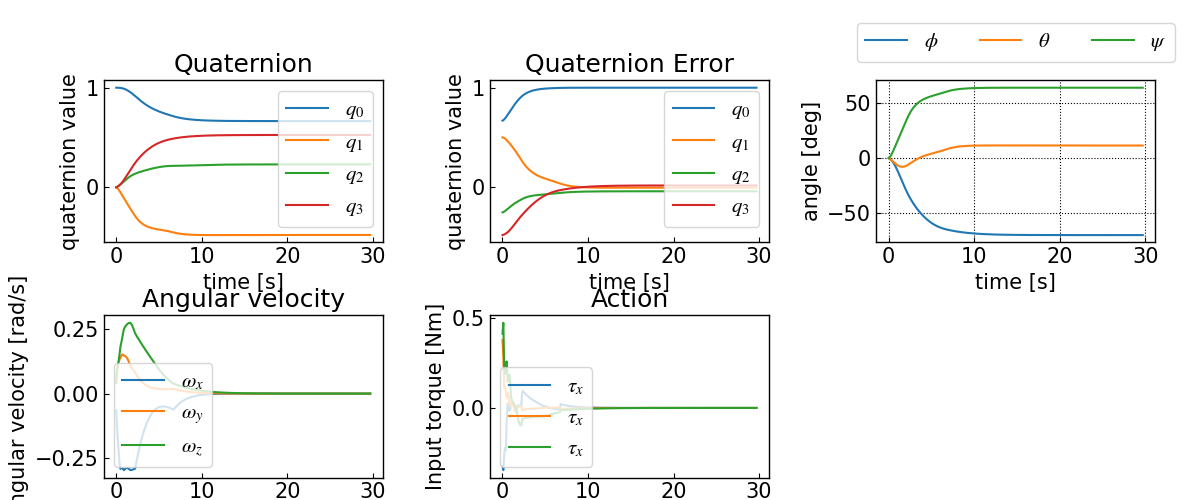
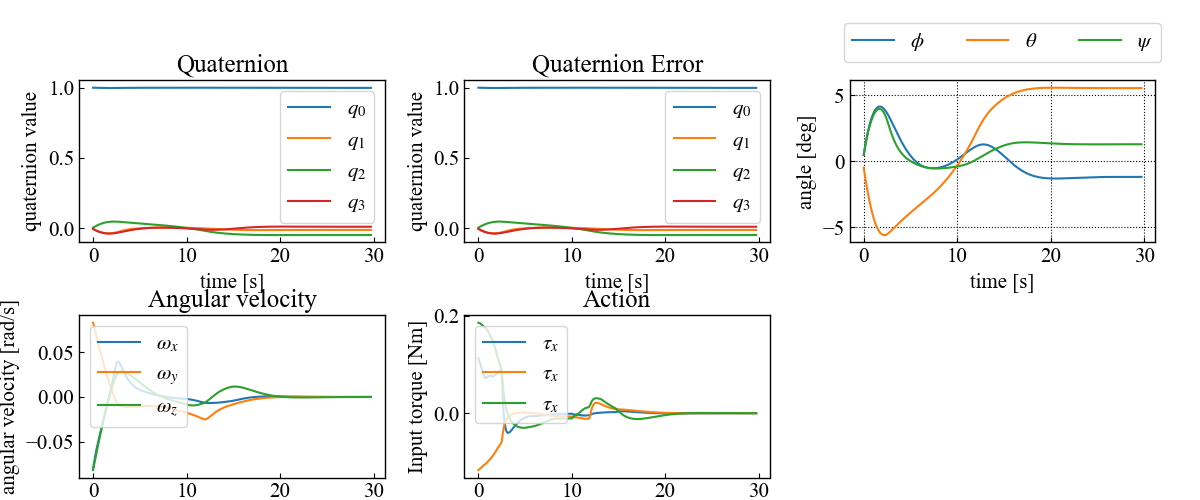
UPDATE: add pd control law

diff --git a/train.py b/train.py
@@ -48,11 +48,11 @@ def train():
     critic_lr = config.critic_lr
     actor_lr = config.actor_lr
 
-    agent = TD3Agent(env, gamma, tau, buffer_maxlen, critic_lr, actor_lr, True, max_episodes * max_steps,
-                    policy_freq, policy_noise, noise_clip)
+    # agent = TD3Agent(env, gamma, tau, buffer_maxlen, critic_lr, actor_lr, True, max_episodes * max_steps,
+                    # policy_freq, policy_noise, noise_clip)
     # wandb.watch([agent.critic,agent.actor], log="all")
-    # curr_dir = os.path.abspath(os.getcwd())
-    # agent = torch.load(curr_dir + "/models/spacecraft_control_ddpg.pkl")
+    curr_dir = os.path.abspath(os.getcwd())
+    agent = torch.load(curr_dir + "/models/spacecraft_control_ddpg.pkl")
     # device = torch.device("cuda" if torch.cuda.is_available() else "cpu")
     episode_rewards = mini_batch_train(env, agent, max_episodes, max_steps, batch_size)
 
@@ -68,6 +68,61 @@ def train():
         os.mkdir("models")
     torch.save(agent, curr_dir + "/models/spacecraft_control_ddpg.pkl")
 
+def train():
+    # simulation of the agent solving the spacecraft attitude control problem
+    env = make("SatelliteContinuous")
+    #logger
+    wandb.init(project='Para-Tune-RL-PD',
+        config={
+        "batch_size": 128,
+        "critic_lr": 1e-3,
+        "actor_lr": 1e-4,
+        "max_episodes": 10000,
+        "max_steps": 300,
+        "gamma": 0.99,
+        "tau" : 1e-3,
+        "buffer_maxlen": 100000,
+        "policy_noise": 0.2,
+        "policy_freq": 2,
+        "noise_clip": 0.5,
+        "prioritized_on": False,
+        "State": 'angle:4, ang_rate:4, ang_vel:3',}
+    )
+    config = wandb.config
+
+    max_episodes = config.max_episodes
+    max_steps = config.max_steps
+    batch_size = config.batch_size
+
+    policy_noise = config.policy_noise
+    policy_freq = config.policy_freq
+    noise_clip = config.noise_clip
+
+    gamma = config.gamma
+    buffer_maxlen = config.buffer_maxlen
+    tau = config.tau
+    critic_lr = config.critic_lr
+    actor_lr = config.actor_lr
+
+    agent = TD3Agent(env, gamma, tau, buffer_maxlen, critic_lr, actor_lr, True, max_episodes * max_steps,
+                    policy_freq, policy_noise, noise_clip)
+    # wandb.watch([agent.critic,agent.actor], log="all")
+    # curr_dir = os.path.abspath(os.getcwd())
+    # agent = torch.load(curr_dir + "/models/pd_tune.pkl")
+    # device = torch.device("cuda" if torch.cuda.is_available() else "cpu")
+    episode_rewards = mini_batch_train_pd(env, agent, max_episodes, max_steps, batch_size)
+
+    plt.figure()
+    plt.plot(episode_rewards)
+    plt.xlabel("Episodes")
+    plt.ylabel("Reward")
+	# plt.show()
+    # plt.savefig(curr_dir + "/results/plot_reward_hist.png")
+
+    curr_dir = os.path.abspath(os.getcwd())
+    if not os.path.isdir("models"):
+        os.mkdir("models")
+    torch.save(agent, curr_dir + "/models/pd_tune.pkl")
 
 def evaluate():
     # simulation of the agent solving the cartpole swing-up problem
@@ -77,7 +132,8 @@ def evaluate():
 
     curr_dir = os.path.abspath(os.getcwd())
 
-    agent = torch.load(curr_dir + "/models/spacecraft_control_ddpg.pkl")
+    agent = torch.load(curr_dir + "/models/spacecraft_control_ddpg.pkl",map_location='cpu')
+    agent.device = torch.device('cpu')
     agent.train = False
 
     state = env.reset()
@@ -226,8 +282,9 @@ def env_test():
     action = np.array([0,0,0]).reshape(1,3)
     actions = np.append(actions, action,axis=0)
 
-    dt = 0.01
-    simulation_iterations = int(50/0.01) -1 # dt is 0.01
+    dt = 0.1
+    simutime = 30
+    simulation_iterations = int(simutime/dt) -1 # dt is 0.01
 
     for i in range(1, simulation_iterations):
         action = np.squeeze(action)
@@ -259,7 +316,9 @@ def env_test():
     curr_dir = os.path.abspath(os.getcwd())
     if not os.path.isdir("results"):
         os.mkdir("results")
-    plt.figure(figsize=(5.0,3.5),dpi=100)
+    plt.figure(figsize=(12,5),dpi=100)
+    # plt.figure(figsize=(5.0,3.5),dpi=100
+    plt.subplot(231)
     plt.plot(np.arange(simulation_iterations-1)*dt, q[:,0],label =r"$q_{0}$")
     plt.plot(np.arange(simulation_iterations-1)*dt, q[:,1],label =r"$q_{1}$")
     plt.plot(np.arange(simulation_iterations-1)*dt, q[:,2],label =r"$q_{2}$")
@@ -271,7 +330,8 @@ def env_test():
     plt.grid(color='k', linestyle='dotted', linewidth=0.6)
     # plt.savefig(curr_dir + "/results/plot_angle.png")
 
-    plt.figure(figsize=(5.0,3.5),dpi=100)
+    # plt.figure(figsize=(5.0,3.5),dpi=100)
+    plt.subplot(232)
     plt.plot(np.arange(simulation_iterations-1)*dt, qe[:,0],label =r"$q_{0}$")
     plt.plot(np.arange(simulation_iterations-1)*dt, qe[:,1],label =r"$q_{1}$")
     plt.plot(np.arange(simulation_iterations-1)*dt, qe[:,2],label =r"$q_{2}$")
@@ -283,7 +343,23 @@ def env_test():
     plt.grid(color='k', linestyle='dotted', linewidth=0.6)
     # plt.savefig(curr_dir + "/results/plot_angle.png")
 
-    plt.figure(figsize=(5.0,3.5),dpi=100)
+    angle = np.array([np.rad2deg(env.dcm2euler(env.quaternion2dcm(q[i,:]))).tolist() for i in range(simulation_iterations-1)])
+    angle = angle.reshape([-1,3])
+    # plt.figure(figsize=(5.0,3.5),dpi=100)
+    plt.subplot(233)
+    plt.plot(np.arange(simulation_iterations-1)*dt, angle[:,0],label = r"$\phi$")
+    plt.plot(np.arange(simulation_iterations-1)*dt, angle[:,1],label = r"$\theta$")
+    plt.plot(np.arange(simulation_iterations-1)*dt, angle[:,2],label = r"$\psi$")
+    # plt.title('Action')
+    plt.ylabel('angle [deg]')
+    plt.xlabel(r'time [s]')
+    plt.legend(loc="lower center", bbox_to_anchor=(0.5,1.05), ncol=3)
+    plt.tight_layout()
+    # plt.ylim(-20, 20)
+    plt.grid(True, color='k', linestyle='dotted', linewidth=0.8)
+
+    # plt.figure(figsize=(5.0,3.5),dpi=100)
+    plt.subplot(234)
     plt.plot(np.arange(simulation_iterations-1)*dt, w[:,0],label =r"$\omega_{x}$")
     plt.plot(np.arange(simulation_iterations-1)*dt, w[:,1],label =r"$\omega_{y}$")
     plt.plot(np.arange(simulation_iterations-1)*dt, w[:,2],label =r"$\omega_{z}$")
@@ -294,7 +370,8 @@ def env_test():
     plt.grid(color='k', linestyle='dotted', linewidth=0.6)
     # plt.savefig(curr_dir + "/results/plot_angle.png")
 
-    plt.figure(figsize=(5.0,3.5),dpi=100)
+    # plt.figure(figsize=(5.0,3.5),dpi=100)
+    plt.subplot(235)
     plt.plot(np.arange(simulation_iterations)*dt, actions[:,0],label = r"$\tau_{x}$")
     plt.plot(np.arange(simulation_iterations)*dt, actions[:,1],label = r"$\tau_{x}$")
     plt.plot(np.arange(simulation_iterations)*dt, actions[:,2],label = r"$\tau_{x}$")
@@ -310,12 +387,14 @@ def env_test():
 
 if __name__ == '__main__':
     plt.close()
-    val = input('Enter the number 1:train 2:evaluate 3:env_test  > ')
+    val = input('Enter the number 1:train 2:evaluate 3:env_test 4:pd_tune > ')
     if val == '1':
         train()
     elif val == '2':
         evaluate()
     elif val == '3':
         env_test()
+    elif val == '4':
+        pd_tune()
     else:
         print("You entered the wrong number, run again and choose from 1 or 2 or 3.")

diff --git a/environment.py b/environment.py
@@ -260,7 +260,7 @@ class SatelliteContinuousEnv(gym.Env):
         #--------REWARD---------
         if not done:
             # reward = -0.05*action@action
-            reward = -((1-qe_new[0])**2 + qe[1:]@qe[1:] + omega_new@omega_new + action@action) 
+            reward = -((1-qe_new[0])**2 + qe_new[1:]@qe_new[1:] + omega_new@omega_new + action@action) 
             # if qe_new[0] >= self.angle_thre:
             #     reward = -0.5*action@action
             #     reward += np.array([1,-1,-1,-1])@np.power(qe,2)
@@ -273,7 +273,7 @@ class SatelliteContinuousEnv(gym.Env):
         elif self.steps_beyond_done is None:
             # epsiode just ended
             self.steps_beyond_done = 0
-            reward = -((1-qe_new[0])**2 + qe[1:]@qe[1:] + omega_new@omega_new + action@action) 
+            reward = -((1-qe_new[0])**2 + qe_new[1:]@qe_new[1:] + omega_new@omega_new + action@action) 
 
             # if qe_new[0] >= self.angle_thre:
             #     reward = np.array([-1,-1,-1,1])@np.power(qe,2)
@@ -292,14 +292,22 @@ class SatelliteContinuousEnv(gym.Env):
         return self.state, reward, done, self.pre_state, {}
 
     def reset(self):
+        self.inertia = np.array([[0.5, 0.0, 0.0], 
+                    [0.0, 0.7, 0.0], 
+                    [0.0, 0.0, 1.0]])
+        self.multi = np.random.randint(100,3000)/100
+        self.inertia = self.multi * self.inertia
+        self.inertia_inv = np.linalg.inv(self.inertia)
         # 初期状態 角度(deg)　角速度(rad/s)
         self.startEuler = np.deg2rad(np.array([0,0,0]))
         self.startQuate = self.dcm2quaternion(self.euler2dcm(self.startEuler))
-        self.startOmega = np.array([0,0,0])
+        coef = 2*np.random.randint(0,2,size=3)-1
+        self.startOmega = coef*np.deg2rad(np.array([5,-5,5]))
+        # self.startOmega = np.array([0,0,0])
 
         # 目標値(deg)
         coef = 2*np.random.randint(0,2,size=3)-1
-        self.goalEuler = coef*np.random.uniform(np.pi/4, high=np.pi/3, size=3)
+        self.goalEuler =  np.deg2rad(np.array([0, 0, 0])) #coef*np.random.uniform(np.pi/4, high=np.pi/3, size=3)
         # while np.array_equal(self.goalEuler, np.array([0, 0, 0])):
         #     self.goalEuler = (np.random.randint(-np.pi, high=np.pi, size=3))
         self.goalQuate = self.dcm2quaternion(self.euler2dcm(self.goalEuler))

diff --git a/utils.py b/utils.py
@@ -51,3 +51,48 @@ def mini_batch_train(env, agent, max_episodes, max_steps, batch_size):
         pass
 
     return episode_rewards
+
+
+def mini_batch_train_pd(env, agent, max_episodes, max_steps, batch_size):
+    episode_rewards = []
+    counter = 0
+    try:
+        for episode in range(max_episodes):
+            state = env.reset()
+            episode_reward = 0    
+            input = np.array([0,0,0]).reshape(1,3)
+            for step in range(max_steps):
+                action = agent.get_action(state, (episode + 1) * (step + 1))
+                next_error_state, reward, done, next_state, _ = env.step(input)
+                agent.replay_buffer.push(state, action, reward, next_error_state, done)
+                action = (action + 1)/2
+                kp = action[0]
+                kd = action[1]
+                Kp = np.array([[0,kp,0,0],
+                                [0,0,kp,0],
+                                [0,0,0,kp]])
+                Kd = np.array([[kd,0,0],
+                                [0,kd,0],
+                                [0,0,kd]])
+                input = -Kp@next_error_state[:4].reshape(-1,1)-Kd@next_error_state[-3:].reshape(-1,1)
+                episode_reward += reward
+
+                # update the agent if enough transitions are stored in replay buffer
+                if len(agent.replay_buffer) > batch_size:
+                    agent.update(batch_size)
+
+                if done or step == max_steps - 1:
+                    episode_rewards.append(episode_reward)
+                    wandb.log({ "episode reward": episode_reward,
+                                "critic_loss": agent.critic_loss_for_log,
+                                "actor_loss": agent.actor_loss_for_log})
+                    # Count number of consecutive games with cumulative rewards >-55 for early stopping
+                    print("\nEpisode " + str(episode) + " total reward : " + str(episode_reward))
+                    break
+
+                state = next_error_state
+    except KeyboardInterrupt:
+        print('Training stopped manually!!!')
+        pass
+
+    return episode_rewards
